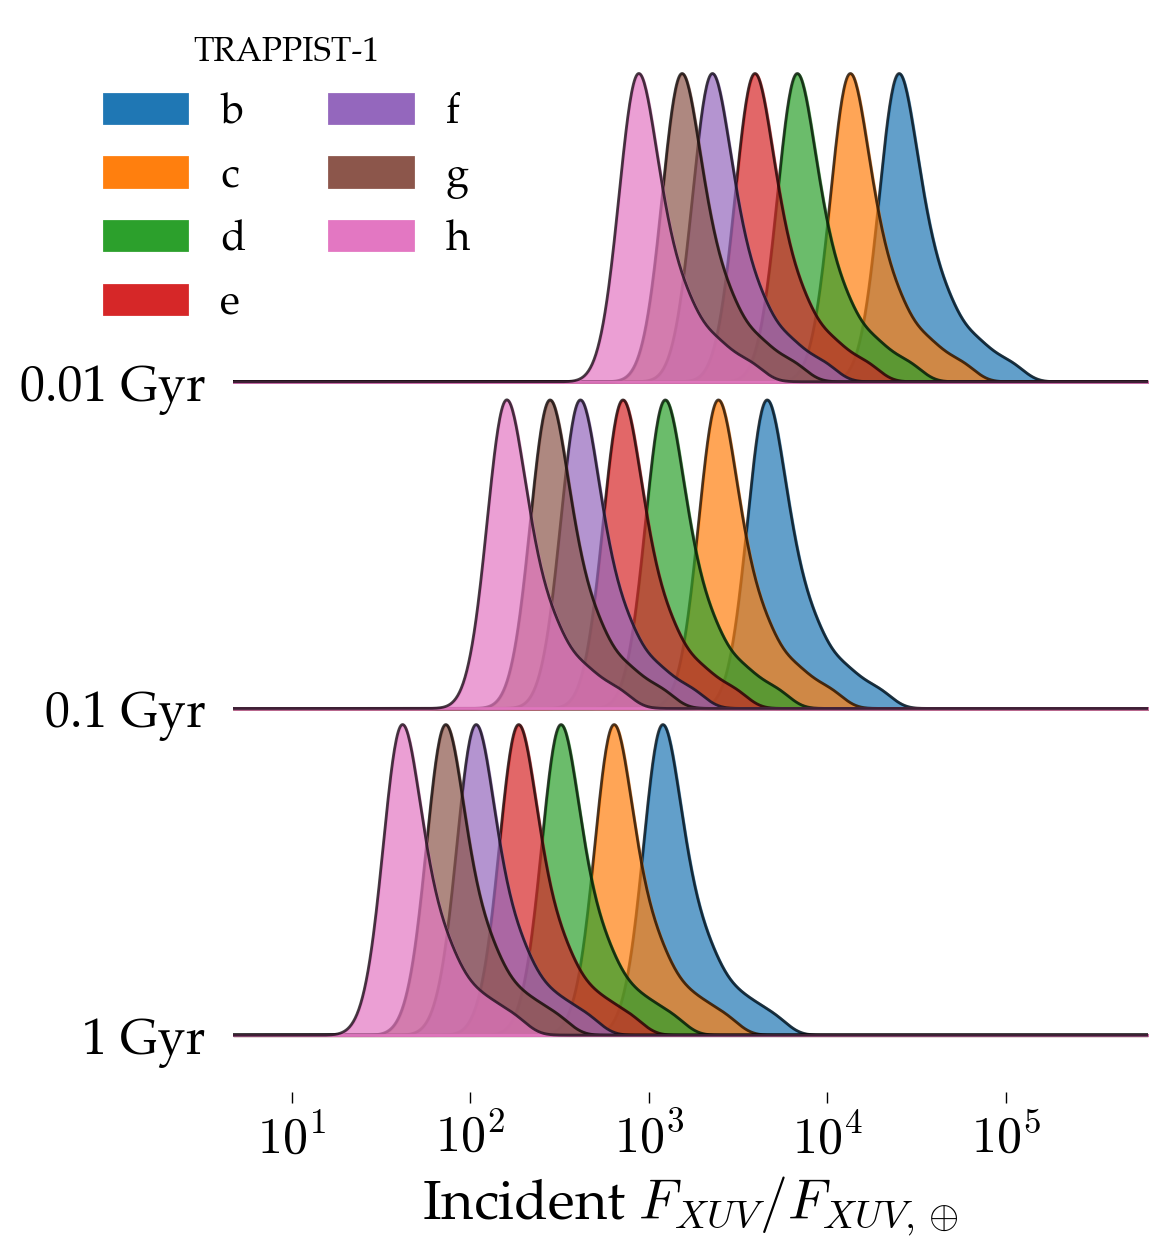
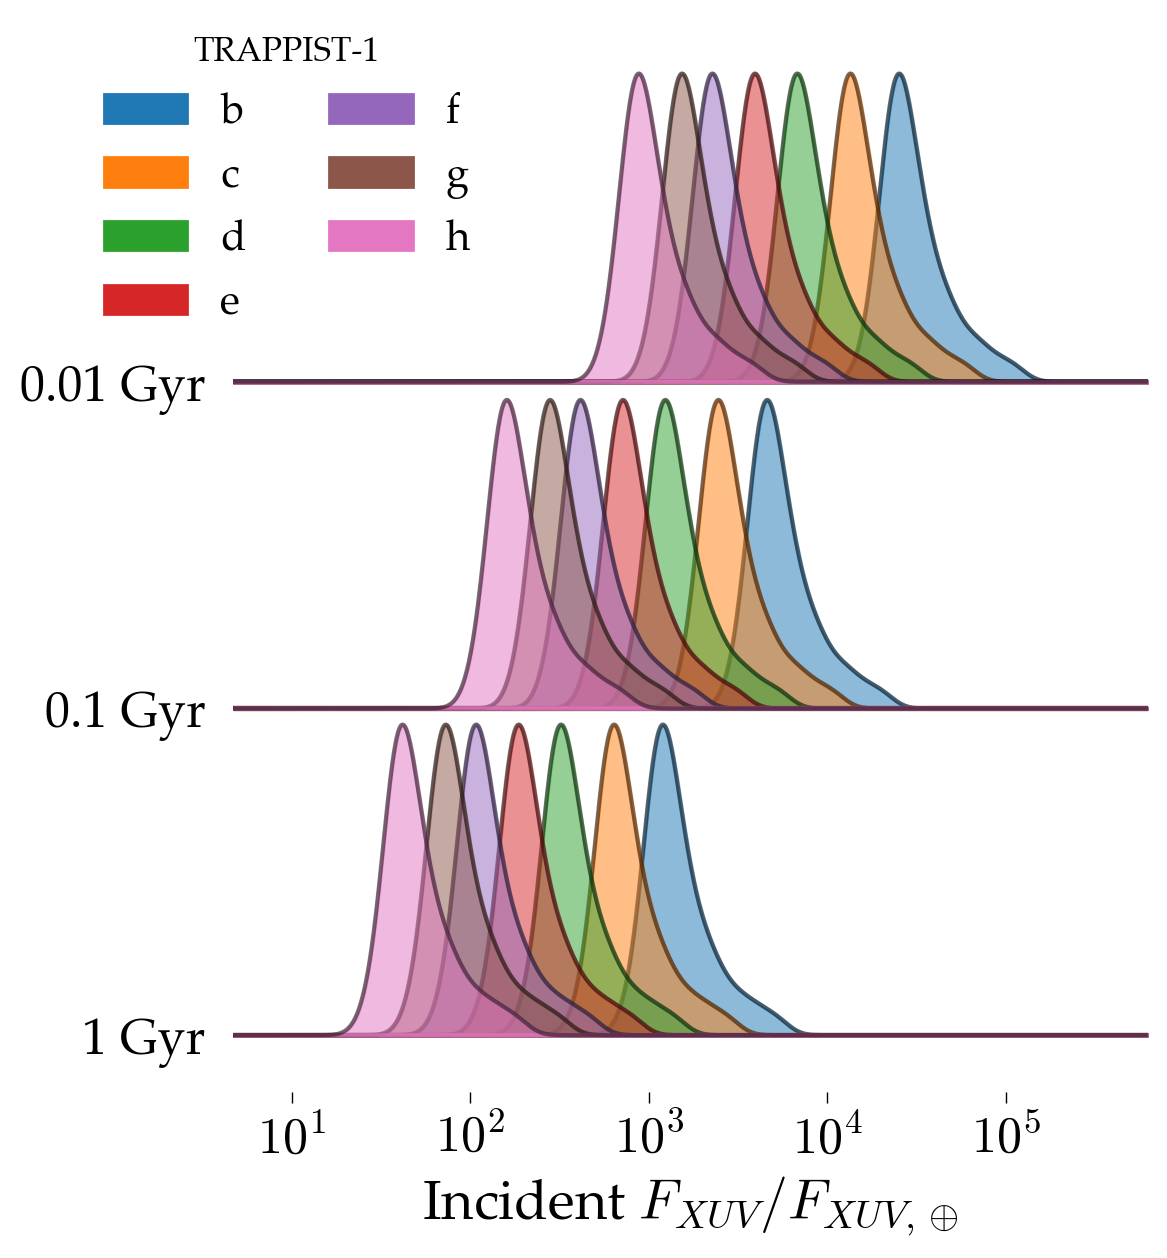
updating flux figure readme

Changed region(s): [[0.2159, 0.062, 0.9871, 0.837]]

diff --git a/Analysis/Fluxes/fluxes.py b/Analysis/Fluxes/fluxes.py
@@ -188,8 +188,8 @@ df = pd.DataFrame({"b" : t1b, "c" : t1c, "d" : t1d, "e" : t1e, "f" : t1f,
                   "g" : t1g, "h" : t1h, "Age" : age})
 
 # Make the ridge(joy?) plot, grouping by age
-fig, axes = jp.joyplot(df, by="Age", xlabelsize=18, ylabelsize=18, alpha=0.7,
-                       figsize=(6,6), linewidth=1, legend=False, overlap=0.5,
+fig, axes = jp.joyplot(df, by="Age", xlabelsize=18, ylabelsize=18, alpha=0.5,
+                       figsize=(6,6), linewidth=1.5, legend=False, overlap=0.5,
                        labels=["0.01 Gyr", "0.1 Gyr", "1 Gyr"], linecolor="k")
 
 # Custom legend

diff --git a/Analysis/Fluxes/README.rst b/Analysis/Fluxes/README.rst
@@ -4,35 +4,31 @@ TRAPPIST-1 MCMC Posterior Distributions
 Overview
 --------
 
-Plot the posterior probability distributions of the stellar mass, saturation
-fraction, saturation timescale, age, and LXUV decay exponent derived from our
-Markov Chain Monte Carlo analysis.
+This example examines plots the posterior distributions of the XUV flux each
+TRAPPIST-1 planet likely received at various ages throughout the pre-main
+sequence.
 
 ===================   ============
-**Date**              04/30/19
+**Date**              06/04/19
 **Author**            David P. Fleming
-**VPLanet Modules**   STELLAR
 ===================   ============
-
-This example examines plots the posterior probability distributions of the
-stellar mass, saturation fraction, saturation timescale, age, and LXUV
-decay exponent.
 
 To make the plot
 ----------------
 
 .. code-block:: bash
 
-    python plotCornerTrappist1.py <pdf | png>
+    python fluxes.py <pdf | png>
 
 
 Expected output
 ---------------
 
-.. figure:: trappist1Corner.png
+.. figure:: fluxes.png
    :width: 600px
    :align: center
 
-   Posterior probability distribution for stellar mass, saturation fraction,
-   saturation timescale, age, and LXUV decay exponent derived from our
-   Markov Chain Monte Carlo analysis.
+   XUV flux received by each TRAPPIST-1 planet, normalized by Earth's, derived
+   from the VPLanet evolutions of samples drawn from the posterior distribution
+   when the system was 0.01, 0.1, and 1 Gyr old. The latter age corresponds to
+   the approximate age at which TRAPPIST-1 entered the main sequence.
